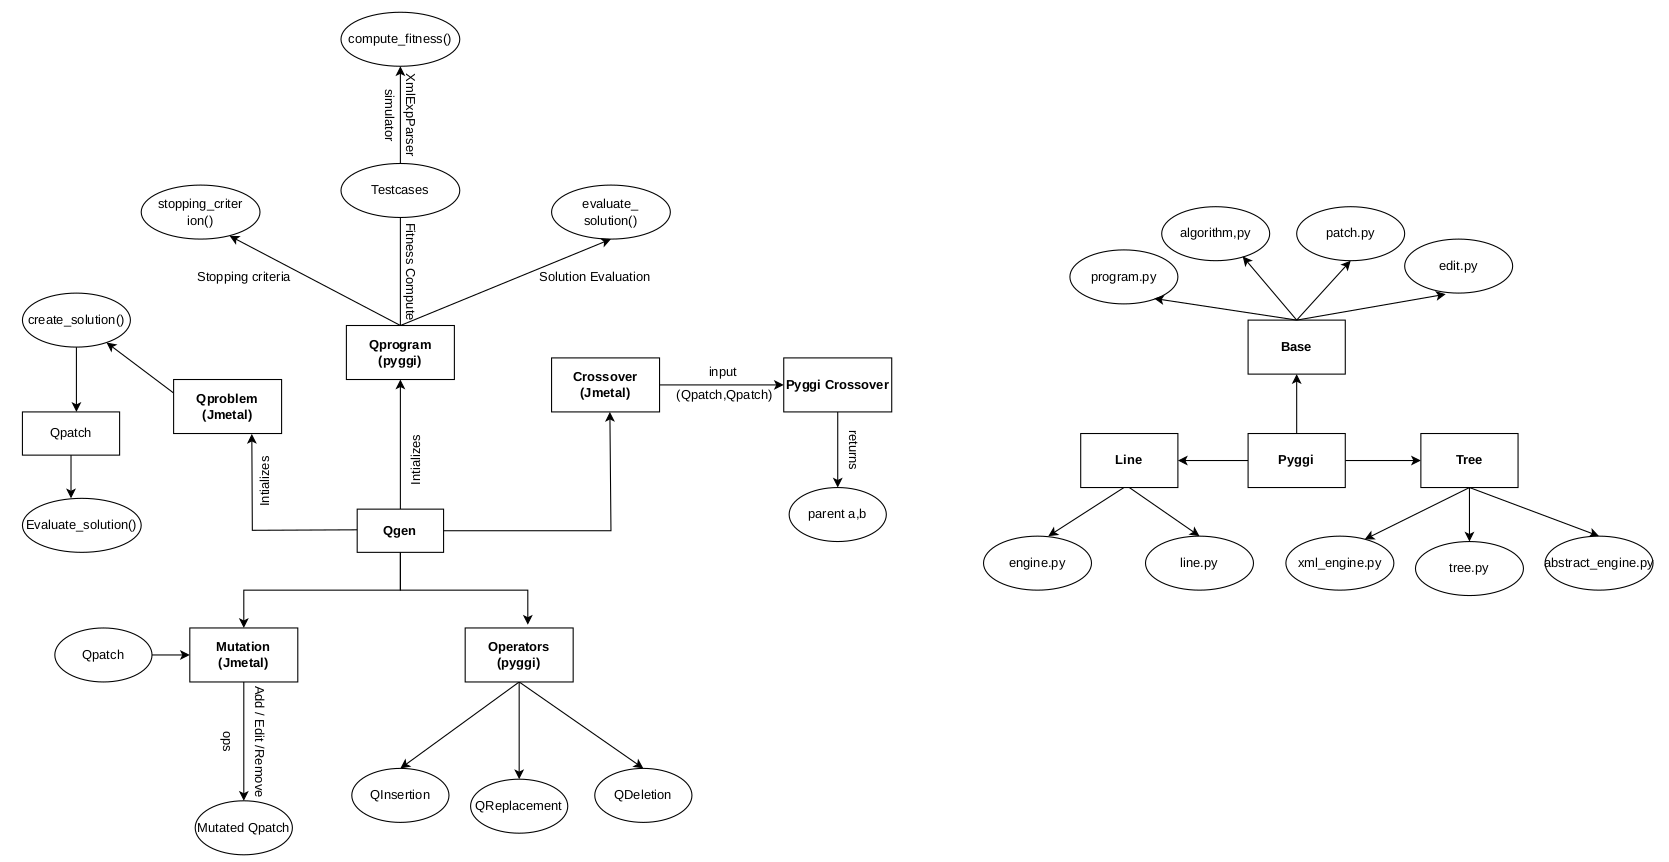
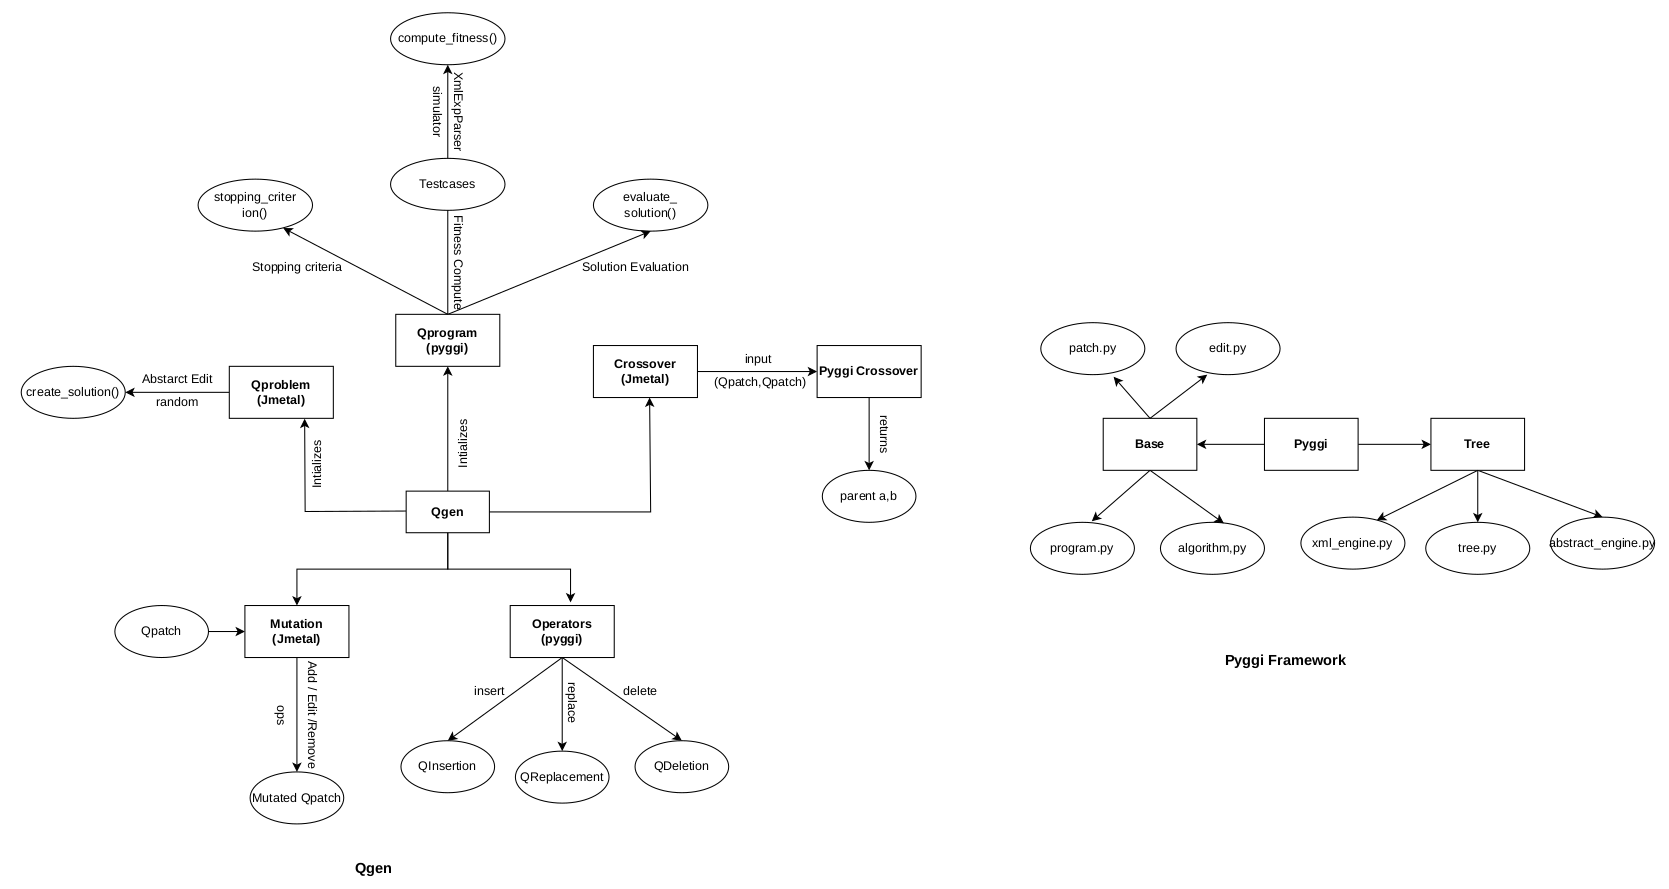
Added readme file

diff --git a/Docs/README.md b/Docs/README.md
@@ -1,0 +1,72 @@
+
+# Overview 
+
+This project focuses on the genetic optimization of quantum programs using a combination of the Pyggi and jMetal libraries. The primary goal is to automatically improve quantum programs by applying genetic algorithms, which systematically explore and refine different configurations of the program to enhance performance, correctness, or other target metrics.
+
+# Integration of Pyggi and jMetal in the Project:
+
+In this project, Pyggi and jMetal work together to facilitate the genetic optimization of quantum programs.Pyggi provides the structure for representing quantum programs and the mechanisms for applying edits (mutations) to these programs. It handles the detailed manipulation of the program's code, enabling the genetic algorithm to explore different configurations.
+jMetal provides the metaheuristic framework, driving the optimization process by defining the problem, generating and evaluating solutions, and applying genetic operators like mutation and crossover. jMetal manages the flow of the genetic algorithm, ensuring that the best-performing solutions are selected and refined over successive generations.
+
+# Benchmarks 
+
+The Benchmark folder in the project includes various subdirectories, each representing a different quantum program used as a test case for the genetic optimization process. These examples serve as the basis for evaluating how effectively the genetic algorithm can improve the performance or correctness of quantum programs. Each subdirectory contains the necessary files for defining, configuring, and testing a specific quantum program.
+
+# Simulator 
+
+The Simulator is responsible for executing the quantum circuits or programs generated by the genetic algorithm, allowing to evaluate their performance and correctness. The Simulator takes the quantum programs (often represented in XML format or as QPatch objects) and runs them within a simulated quantum environment. This execution mimics how the quantum circuit would behave on a real quantum computer, providing insights into the program's functionality.
+
+# Modules 
+
+# Qgen.py
+
+The core logic starts by parsing command-line arguments using parser_generator().
+Initializes a QProgram object with the provided project path and operators.
+Encapsulates the quantum program within a QProblem object, defining the optimization task.
+It selects and configures a genetic algorithm, typically GeneticAlgorithm from jMetalpy, with specified parameters like population size, mutation and crossover rates, and selection method. 
+The algorithm iterates through generations, applying modifications to the program and evaluating their fitness. Upon completion, the script outputs the optimized program and a list of applied edits, providing a clear summary of the improvements made. 
+
+
+# Qprogram.py
+
+The QProgram class extends the TreeProgram class from the Pyggi framework. This module facilitates the management and optimization of quantum programs. Upon initialization, it reads and parses a quantum program from an XML file located in a specified directory. It maintains a list of modifiable operators that can alter the program. The module supports operations to select target modification points within the program, apply changes, and evaluate the impact of these changes.
+
+Fitness evaluation is performed by executing the modified program and analyzing the test results. The module computes fitness based on the number of test failures and runtime metrics, adjusting the program accordingly. It also incorporates stopping criteria to determine when optimization should cease, typically when a satisfactory fitness level is achieved. The QProgram module thus plays a central role in evolving quantum programs by iteratively applying, testing, and refining changes to improve performance.
+
+# Qproblem.py
+
+The QProblem class is responsible for managing the core aspects of the optimization process. It initializes with a QProgram object, which represents the quantum program to be optimized, and sets the parameters for the optimization, such as the number of variables and objectives. The class provides a method for creating new solutions (QPatch objects) by applying random edit operators to the program, ensuring a diverse set of candidate solutions. During the evaluation phase, QProblem uses the evaluate_solution method to assess the fitness of each QPatch, typically by running the program against test cases in a simulator and computing a fitness score based on the results. This fitness score is crucial for determining how well a solution performs and guides the selection process in the genetic algorithm. Overall, QProblem serves as the interface between the quantum program and the genetic algorithm, enabling systematic exploration and optimization of the program's configuration.
+
+# Qpatch.py
+
+The QPatch class extends both the Solution class from jMetal and the Patch class from Pyggi, combining the functionalities needed to represent and manipulate a sequence of edits or modifications applied to a quantum program.This class stores a list of edits, each representing a change made to the original quantum program, such as inserting, deleting, or replacing quantum gates. When a QPatch is created, it initializes with an empty or pre-defined edit list, depending on the context of its creation. The class allows for easy addition, removal, and reordering of edits, facilitating the mutation and crossover operations that drive the exploration of the solution space.
+
+# Crossover.py
+
+The PyggiCrossover class implements the crossover operation for a genetic algorithm, combining two parent QPatch solutions to create new offspring solutions. This process involves swapping portions of the parents' edit lists to produce variations in the offspring. The class is initialized with a probability of performing the crossover and ensures that exactly two parents are used to generate two children.
+
+Functionality 
+Checks that there are exactly two parents.
+Performs a deep copy of the parent solutions to avoid modifying the originals.
+Determines the lengths of the parents' edit lists.
+If either parent's edit list is empty, it simply combines their edit lists.
+Otherwise, it performs a crossover at the midpoint of the edit lists, swapping the second halves of the parents' edit lists.
+Returns two new QPatch offspring solutions created from the parents.
+
+# Mutation.py
+
+The Mutation module implements the mechanisms by which small, random changes are introduced to the solutions (QPatch objects) within the context of a genetic algorithm.Upon initialization, it takes a probability value that determines the likelihood of mutation for each edit in the QPatch. During execution, the class iterates over the edit list, randomly deciding whether to remove, add, or replace edits based on the mutation probability. By altering the sequence of edits, the mutation helps the algorithm explore different parts of the solution space, thereby preventing premature convergence on suboptimal solutions. The modified QPatch is then returned, ready for further evaluation or processing within the algorithm.
+
+# Operators.py
+
+The Operators module defines custom edit operations that can be applied to a quantum program within the genetic algorithm. These operations, such as insertion, replacement, and deletion of quantum gates, modify the structure of the quantum program represented by a QPatch. By using these operators, the genetic algorithm can generate a diverse set of candidate solutions, each representing a different configuration of the quantum program.The Operators module contains classes like QGateInsertion, QGateReplacement, and QGateDeletion, which provide specific mechanisms for modifying quantum programs:
+
+QGateInsertion:
+This operator allows the insertion of a new quantum gate at a specific location within the program. It selects a target point in the program where a new gate, derived from an existing ingredient or a random choice, can be inserted. The direction of insertion (before or after the target) can also be specified.
+
+QGateReplacement:
+This operator replaces an existing quantum gate in the program with another gate. It identifies the gate to be replaced and selects a suitable replacement from the available options, ensuring that the program's logic is altered in a meaningful way. This helps explore alternative program configurations by swapping critical operations.
+
+QGateDeletion:
+This operator removes a quantum gate from the program. By deleting specific gates, the operator simplifies the program, which may lead to discovering more efficient or functional configurations that were previously obscured by unnecessary operations.
+
